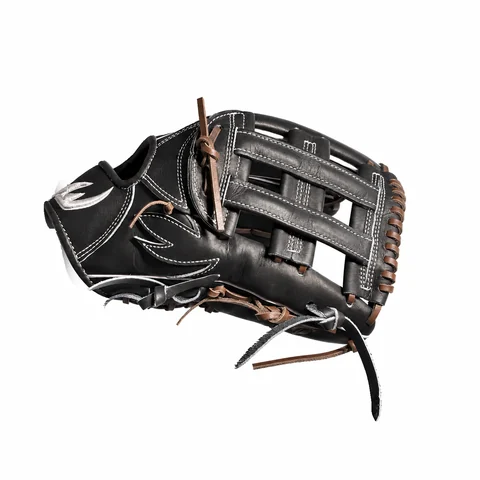
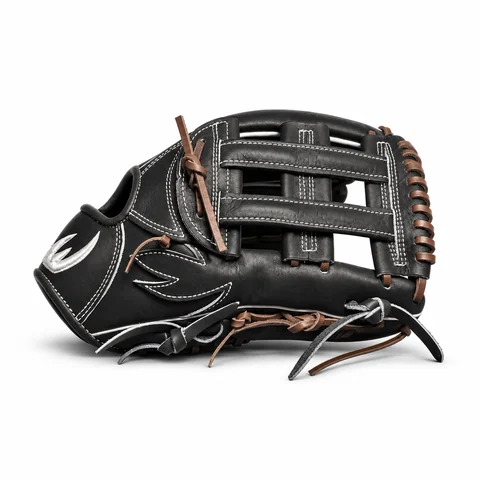
Rebuild all full-size glove photos from the updated source folders
New black side, orange side, and orange palm photos; camel photos now
come from images/camel_glove. The new side photos already lie flat, so
the rotation and shadow cleanup are removed.

diff --git a/src/catalog.js b/src/catalog.js
@@ -86,9 +86,9 @@ const fullSizeAngles = Object.freeze([
 // Square photo size per colorway, from scripts/prepare-full-size-images.py.
 const fullSizePhotoSizes = Object.freeze({
   mint: { back: 1254, palm: 1254, side: 1254, 'finger-side': 1254 },
-  black: { back: 1402, palm: 1402, side: 1402, 'finger-side': 1402 },
+  black: { back: 1402, palm: 1402, side: 1448, 'finger-side': 1402 },
   camel: { back: 1449, palm: 1402, side: 724, 'finger-side': 1402 },
-  orange: { back: 548, palm: 586, side: 599, 'finger-side': 567 }
+  orange: { back: 548, palm: 422, side: 1448, 'finger-side': 567 }
 });
 const fullSizePhotos = (color, tone) => fullSizeAngles.map(([angle, view]) => ({
   src: `/images/full-size/${color}-${angle}.jpg`,

diff --git a/scripts/prepare-full-size-images.py b/scripts/prepare-full-size-images.py
@@ -14,35 +14,10 @@ ROOT = Path(__file__).resolve().parents[1]
 OUT = ROOT / 'public' / 'images' / 'full-size'
 OUT.mkdir(parents=True, exist_ok=True)
 
-MODELS = [('mint', 'mint_glove'), ('black', 'black_glove'), ('camel', 'camel'), ('orange', 'orange_glove')]
+MODELS = [('mint', 'mint_glove'), ('black', 'black_glove'), ('camel', 'camel_glove'), ('orange', 'orange_glove')]
 ANGLES = ['back', 'palm', 'side', 'finger_side']
 # Rows to trim from the top of a source photo (removes a stray screenshot strip).
-TOP_TRIM = {('orange', 'back'): 8, ('orange', 'side'): 3}
-# Turn upright side photos clockwise so they lie flat like the camel side view.
-# Value: darkest gray that still counts as shadow (black leather is darker than 60;
-# orange leather is colored, so its darker contact shadow can be cleared too).
-ROTATE_CLOCKWISE = {('black', 'side'): 60, ('orange', 'side'): 15}
-
-def clear_floor_shadow(image, darkest_shadow=60):
-    """Whiten the soft gray floor shadow under an upright glove, before it is rotated.
-
-    Each column is scanned upward from the bottom. Shadow is neutral gray that gets
-    steadily darker toward the glove, so the scan stops at the first colored or very
-    dark pixel (leather) or at a sudden brightening (a logo or lace), leaving the
-    glove untouched.
-    """
-    pixels = image.load()
-    for x in range(image.width):
-        darkest = 255
-        for y in range(image.height - 1, -1, -1):
-            r, g, b = pixels[x, y]
-            light = (r + g + b) // 3
-            if max(r, g, b) - min(r, g, b) > 14 or light < darkest_shadow or light > darkest + 20:
-                break
-            darkest = min(darkest, light)
-            pixels[x, y] = (254, 254, 254)
-    return image
-
+TOP_TRIM = {('orange', 'back'): 8}
 
 ONLY = set(sys.argv[1:])  # optional colors to rebuild, e.g. black orange
 
@@ -60,8 +35,6 @@ for color, folder in MODELS:
         trim = TOP_TRIM.get((color, angle), 0)
         if trim:
             image = image.crop((0, trim, image.width, image.height))
-        if (color, angle) in ROTATE_CLOCKWISE:
-            image = clear_floor_shadow(image, ROTATE_CLOCKWISE[(color, angle)]).transpose(Image.Transpose.ROTATE_270)
         side = max(image.size)
         # Pad with the photo's own background tone so no box edge shows.
         border = [image.getpixel((x, y)) for x in range(image.width) for y in (0, image.height - 1)]
